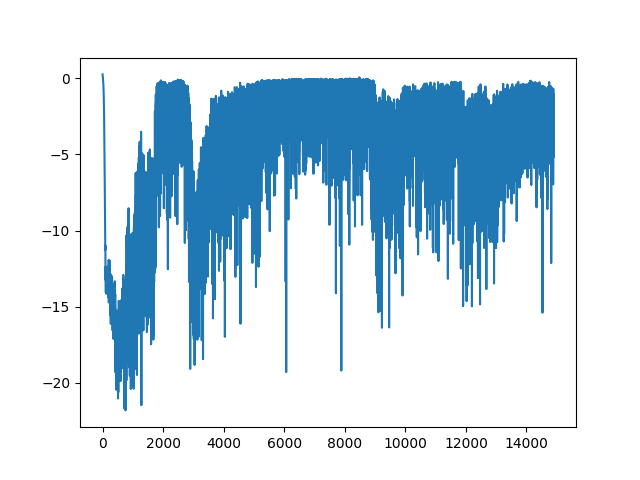
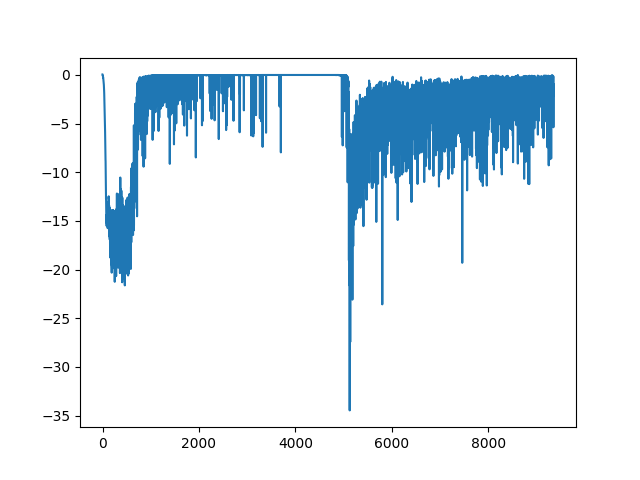
u

diff --git a/actor_critic_cat_mouse/env2.py b/actor_critic_cat_mouse/env2.py
@@ -25,7 +25,8 @@ class grid:
         self.cat_previous = self.cat_pos
         self.cat_pos = self.transition_single_agent(self.cat_pos,a) 
     def transition(self,a):
-        """performs state transition for bith agents
+        """
+        Performs state transition for bith agents
         """
         self.transition_cat(a["cat"])
         self.transition_mouse(a["mouse"])
@@ -56,10 +57,11 @@ class grid:
         return s_out
     def reward_cat(self):
         #reward = (1.0)*(self.cat_pos==self.mouse_pos)# + (-1.0)*(self.cat_pos == self.cat_previous)
-        reward = (-1.0)*((self.mouse_pos[0] - self.cat_pos[0])**2 + (self.mouse_pos[1] - self.cat_pos[1])**2)# + (-10.0)*(self.mouse_pos==self.mouse_previous)
+        reward = (-1.0)*((self.mouse_pos[0] - self.cat_pos[0])**2 + (self.mouse_pos[1] - self.cat_pos[1])**2) + (-1.0)*(self.cat_pos==self.cat_previous)
         return reward
     def reward_mouse(self):
-        reward = (-1.0)*((self.target_mouse[0] - self.mouse_pos[0])**2 + (self.target_mouse[1] - self.mouse_pos[1])**2)# + (-10.0)*(self.mouse_pos==self.mouse_previous)
+        reward = (-1.0)*((self.target_mouse[0] - self.mouse_pos[0])**2 + (self.target_mouse[1] - self.mouse_pos[1])**2) + (-1.0)*(self.mouse_pos==self.target_mouse)
+        reward += (+1.0)*((self.mouse_pos[0] - self.cat_pos[0])**2 + (self.mouse_pos[1] - self.cat_pos[1])**2)
         #reward = (10.0)*(self.target_mouse==self.mouse_pos)# + (-10.0)*(self.mouse_pos==self.mouse_previous)
         return reward
     def grid(self):

diff --git a/actor_critic_cat_mouse/test.py b/actor_critic_cat_mouse/test.py
@@ -33,8 +33,8 @@ def test(mouse:Mouse,cat:Mouse,env:grid):
         plt.close()
 
 if __name__=="__main__":
-    testmode = True
-    start = 1400
+    testmode = False
+    start = 0
     epsilon = .3
     gamma = .99
     nx = 4
@@ -49,7 +49,7 @@ if __name__=="__main__":
     # learn Q with K iteration, allows more stability. We choose K=1 bc the system is simple.
     K = 2
     K_cat = 2
-    n_epochs =  3000
+    n_epochs =  2000
     loadpath = "loads"
     loadopt = "opt"
     max_steps = 30
